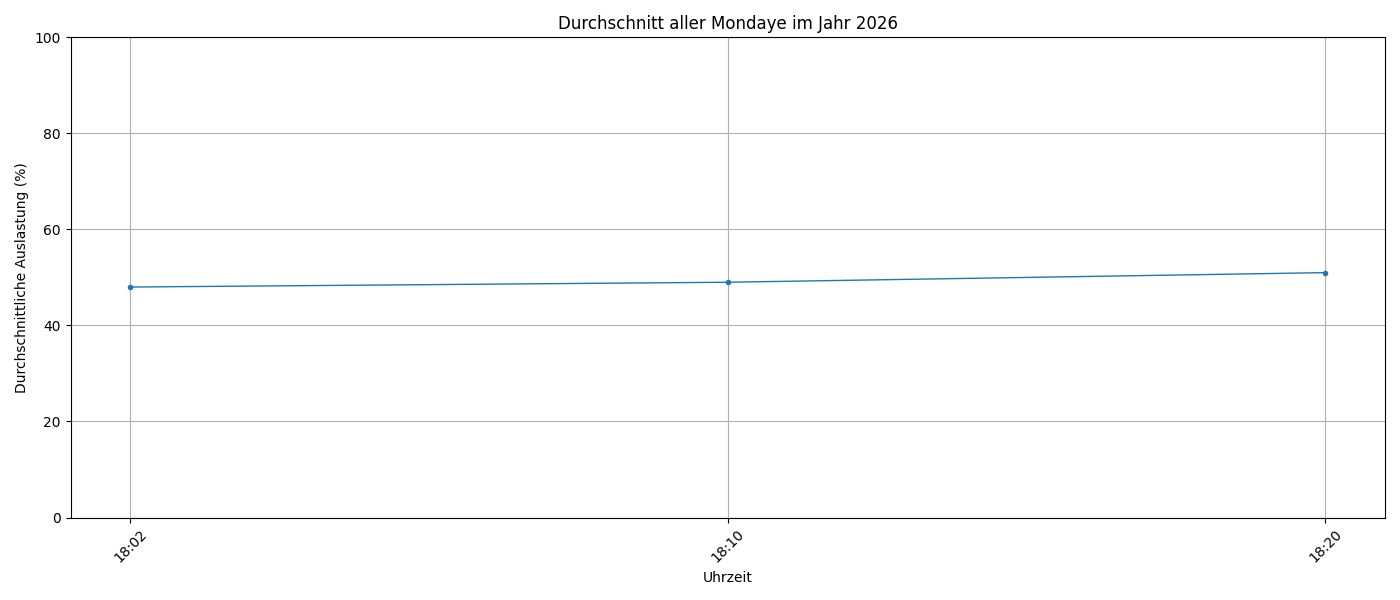
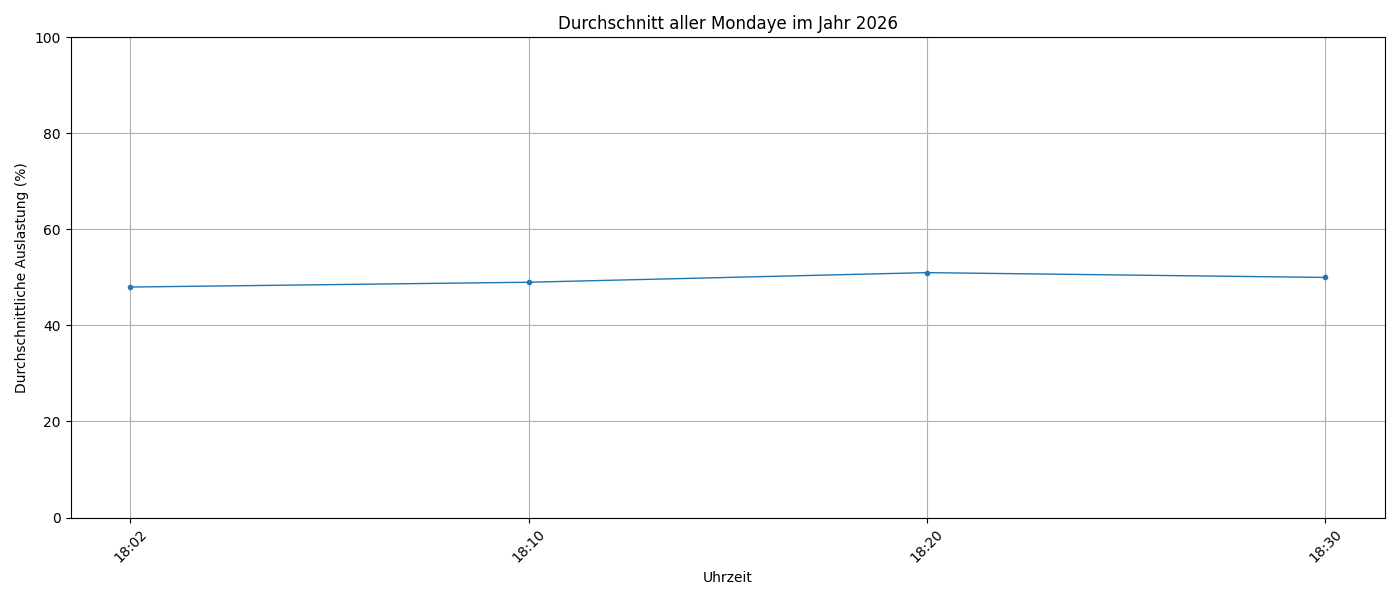
Add daily CSV exports for studio load values

diff --git a/src/generate_graphs.py b/src/generate_graphs.py
@@ -99,6 +99,23 @@ def create_daily_graphs(df: pd.DataFrame, year: int, month: int) -> None:
             rotate_x=True,
         )
 
+def create_daily_csv_files(df: pd.DataFrame, year: int, month: int) -> None:
+    month_df = df[(df["year"] == year) & (df["month"] == month)]
+
+    if month_df.empty:
+        return
+
+    output_dir = OUTPUT_BASE / str(year) / f"{month:02d}"
+    output_dir.mkdir(parents=True, exist_ok=True)
+
+    for date, day_df in month_df.groupby("date"):
+        day_df = day_df.sort_values("timestamp")
+
+        export_df = day_df[["timestamp", "load_percent"]].copy()
+        export_df["timestamp"] = export_df["timestamp"].dt.strftime("%Y-%m-%d %H:%M:%S")
+
+        output_file = output_dir / f"day_{date}.csv"
+        export_df.to_csv(output_file, index=False)
 
 def create_monthly_weekday_average_graphs(df: pd.DataFrame, year: int, month: int) -> None:
     month_df = df[(df["year"] == year) & (df["month"] == month)]
@@ -180,6 +197,7 @@ def main() -> None:
     month = latest.month
 
     create_daily_graphs(df, year, month)
+    create_daily_csv_files(df, year, month)
     create_monthly_weekday_average_graphs(df, year, month)
     create_yearly_weekday_average_graphs(df, year)
 